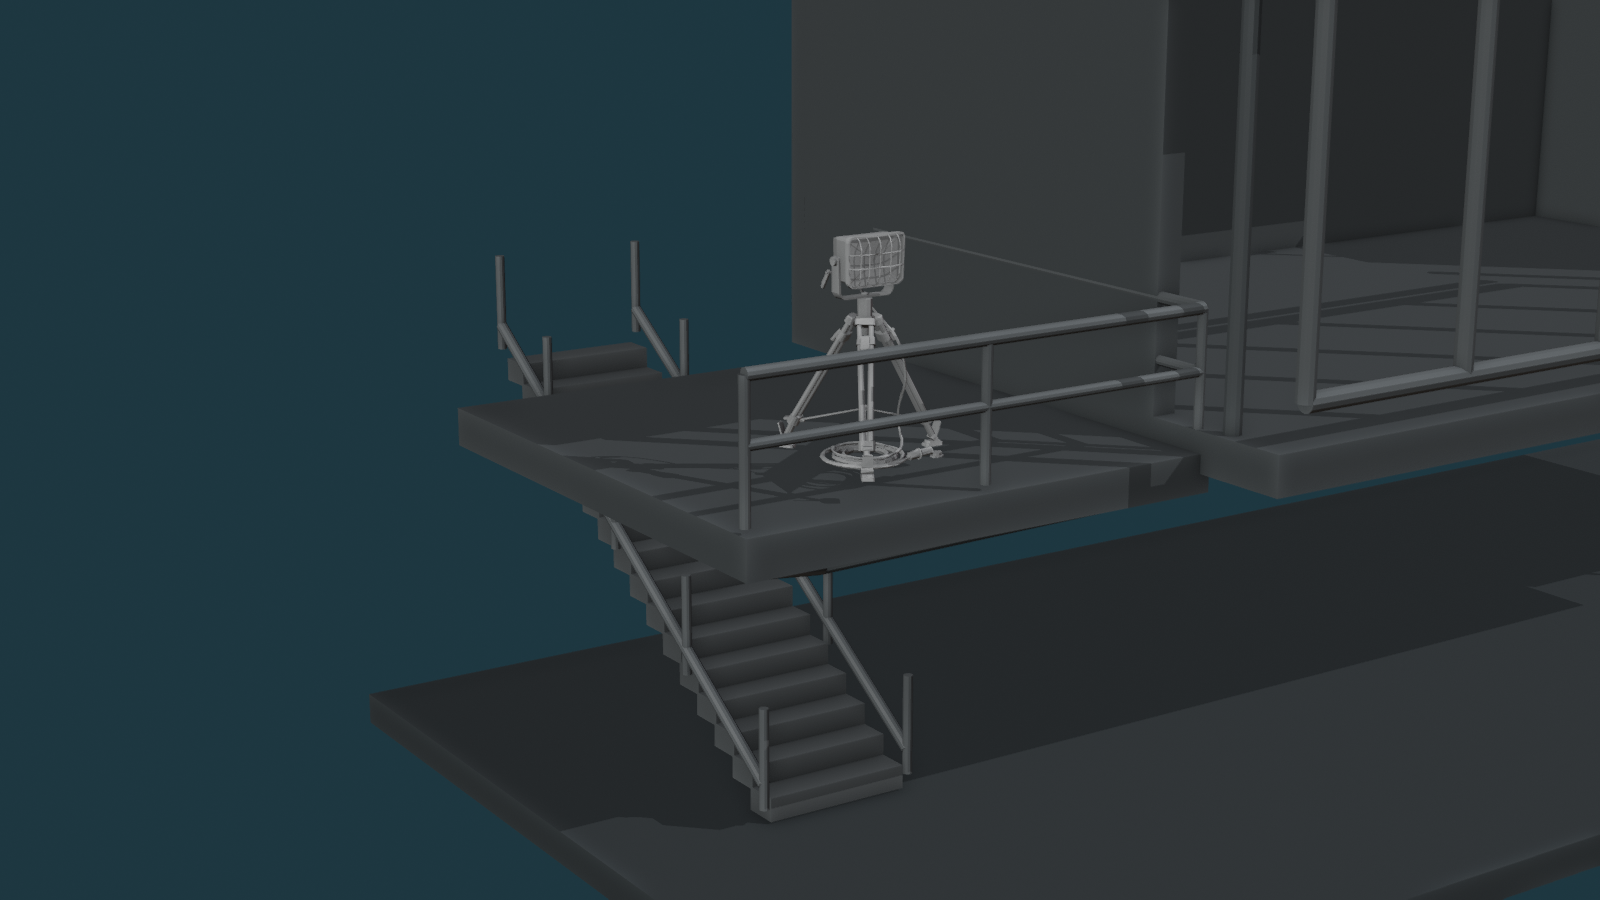
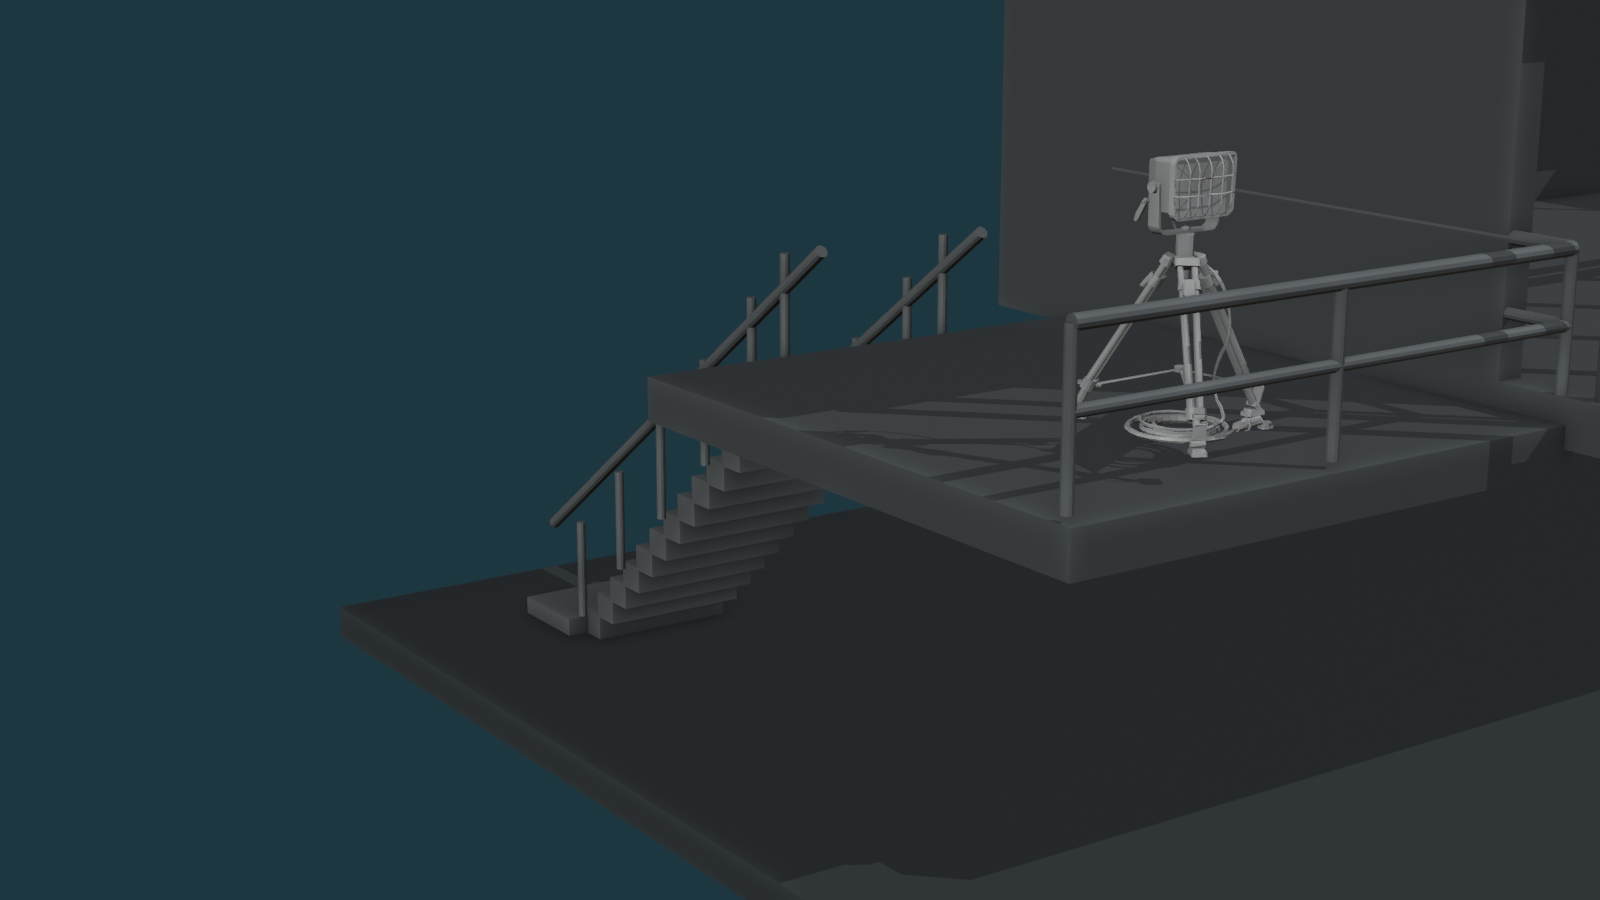
Revise Structure 14 stair connection V02

Changed region(s): [[0.2812, 0.1556, 1.0, 0.9022], [0.4688, 0.0311, 0.5, 0.1244]]

diff --git a/index.html b/index.html
@@ -22,13 +22,13 @@
 <body>
 <header><h1>Topside Asset Review</h1><p class="sub">Asset Workflow 2.0 - Blender geometry and scale approval. Production shaders intentionally omitted.</p></header>
 <main>
-  <section class="group"><h2>Drowned Ferry - Structure 14 <span class="badge">AWAITING APPROVAL</span></h2><p>Exterior Bridge / Wheelhouse - Option 3 Bridge With Wings - upper-superstructure landmark - ferry systems dead</p></section>
+  <section class="group"><h2>Drowned Ferry - Structure 14 <span class="badge">AWAITING APPROVAL</span></h2><p>Exterior Bridge / Wheelhouse V02 - Option 3 Bridge With Wings - rebuilt functional marine stair connection - ferry systems dead</p></section>
   <section class="card wide"><a href="images/structure14-bridge-wings-perspective.png" target="_blank" rel="noopener"><img src="images/structure14-bridge-wings-perspective.png" alt="Structure 14 bridge with wings perspective Blender review"></a><div class="meta"><h3>14 - Perspective</h3><p>Exterior wheelhouse shell with open forward windows, port/starboard wing platforms, broken roof and communications mast.</p><p class="hint">Tap image for full PNG.</p></div></section>
   <section class="card wide"><a href="images/structure14-bridge-wings-front.png" target="_blank" rel="noopener"><img src="images/structure14-bridge-wings-front.png" alt="Structure 14 bridge front elevation"></a><div class="meta"><h3>14 - Front / Bridge Wings</h3><p>Approx. 20 m overall width with six large bridge-window openings and extended wing platforms.</p></div></section>
-  <section class="card"><a href="images/structure14-bridge-wings-side.png" target="_blank" rel="noopener"><img src="images/structure14-bridge-wings-side.png" alt="Structure 14 side elevation"></a><div class="meta"><h3>14 - Side</h3><p>Shows the 3.2 m bridge-deck elevation, exterior stair connection and broken upper mast silhouette.</p></div></section>
+  <section class="card"><a href="images/structure14-bridge-wings-side.png" target="_blank" rel="noopener"><img src="images/structure14-bridge-wings-side.png" alt="Structure 14 side elevation"></a><div class="meta"><h3>14 - Side</h3><p>Shows the 3.2 m bridge-deck elevation, rebuilt straight marine stair with upper/lower landings, and broken upper mast silhouette.</p></div></section>
   <section class="card"><a href="images/structure14-bridge-wings-top.png" target="_blank" rel="noopener"><img src="images/structure14-bridge-wings-top.png" alt="Structure 14 top view"></a><div class="meta"><h3>14 - Top</h3><p>Approx. 9 m depth with missing roof section, open wing circulation and exterior access.</p></div></section>
   <section class="card wide"><a href="images/structure14-bridge-wings-scale.png" target="_blank" rel="noopener"><img src="images/structure14-bridge-wings-scale.png" alt="Structure 14 scale check"></a><div class="meta"><h3>14 - Dedicated Scale Check</h3><p>1.8 m player and 12 m vertical gauge shown against the bridge and mast.</p></div></section>
-  <section class="card wide"><a href="images/structure14-bridge-wings-connection.png" target="_blank" rel="noopener"><img src="images/structure14-bridge-wings-connection.png" alt="Structure 14 wing stair connection"></a><div class="meta"><h3>14 - Wing / Structure 13 Connection</h3><p>Port bridge wing and exterior stair show the intended transition down toward the approved lifeboat deck.</p></div></section>
+  <section class="card wide"><a href="images/structure14-bridge-wings-connection.png" target="_blank" rel="noopener"><img src="images/structure14-bridge-wings-connection.png" alt="Structure 14 wing stair connection"></a><div class="meta"><h3>14 - Wing / Structure 13 Connection</h3><p>V02 stair path is continuous: Structure 13 deck to lower landing to stair to upper landing to the open port bridge wing.</p></div></section>
 
   <section class="group"><h2>Drowned Ferry - Structure 13 <span class="badge">PASS</span></h2><p>Lifeboat Deck / Davits - hanging lifeboat - damaged empty station - ferry systems dead</p></section>
   <section class="card wide"><a href="images/structure13-lifeboat-deck-perspective.png" target="_blank" rel="noopener"><img src="images/structure13-lifeboat-deck-perspective.png" alt="Structure 13 lifeboat deck perspective Blender review"></a><div class="meta"><h3>13 - Perspective</h3><p>Open lifeboat deck with intact launch station, hanging enclosed lifeboat, damaged davits and sparse inboard framing.</p><p class="hint">Tap image for full PNG.</p></div></section>
